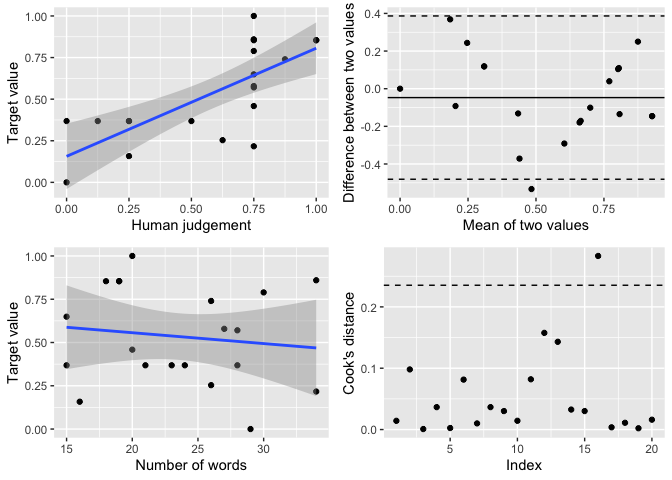
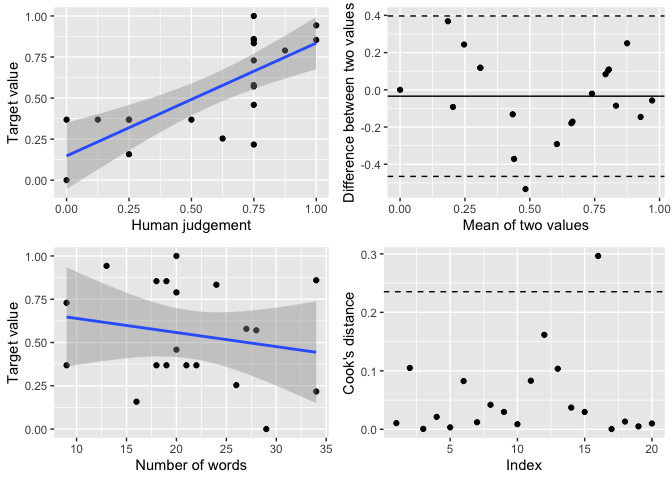
removed abstracts_topicmodels from CRAN build.

diff --git a/overview_gh.md b/overview_gh.md
@@ -40,7 +40,7 @@ library(stm)
 #> stm v1.3.5 successfully loaded. See ?stm for help. 
 #>  Papers, resources, and other materials at structuraltopicmodel.com
 library(quanteda)
-#> Package version: 1.5.2
+#> Package version: 2.0.0
 #> Parallel computing: 2 of 4 threads used.
 #> See https://quanteda.io for tutorials and examples.
 #> 
@@ -292,11 +292,20 @@ oolong_test
 ``` r
 abstracts_dfm
 #> Document-feature matrix of: 2,500 documents, 3,998 features (98.6% sparse).
+#>        features
+#> docs    explor benefit risk featur medic broker websit well type persuas
+#>   text1      1       2    2      2     6      3      6    1    3       1
+#>   text2      0       0    1      0     0      0      0    0    1       0
+#>   text3      0       1    0      0     0      0      0    0    0       0
+#>   text4      1       0    0      0     0      0      0    0    0       0
+#>   text5      1       0    0      0     0      0      0    0    0       0
+#>   text6      0       1    1      0     0      0      0    0    0       0
+#> [ reached max_ndoc ... 2,494 more documents, reached max_nfeat ... 3,988 more features ]
 ```
 
 ``` r
 oolong_test <- create_oolong(abstracts_warplda, abstracts$text, input_dfm = abstracts_dfm)
-#> INFO  [23:33:56.793] early stopping at 50 iteration
+#> INFO  [17:28:11.660] early stopping at 50 iteration
 oolong_test
 #> An oolong test object with k = 20, 0 coded.
 #> Use the method $do_word_intrusion_test() to do word intrusion test.
@@ -369,6 +378,25 @@ for further analysis. The corpus contains two `docvars`, ‘answer’.
 ``` r
 oolong_test$turn_gold()
 #> Corpus consisting of 20 documents and 1 docvar.
+#> text1 :
+#> "Thank you Eau Claire, Wisconsin.  #VoteTrump on Tuesday, Apr..."
+#> 
+#> text2 :
+#> ""@bobby990r_1: @realDonaldTrump would lead polls the second ..."
+#> 
+#> text3 :
+#> ""@KdanielsK: @misstcassidy @AllAboutTheTea_ @realDonaldTrump..."
+#> 
+#> text4 :
+#> "Thank you for a great afternoon Birmingham, Alabama! #Trump2..."
+#> 
+#> text5 :
+#> ""@THETAINTEDT: @foxandfriends @realDonaldTrump Trump 2016 ht..."
+#> 
+#> text6 :
+#> "People believe CNN these days almost as little as they belie..."
+#> 
+#> [ reached max_ndoc ... 14 more documents ]
 #> Access the answer from the coding with quanteda::docvars(obj, 'answer')
 ```
 
@@ -384,13 +412,13 @@ dfm(gold_standard, remove_punct = TRUE) %>% dfm_lookup(afinn) %>% quanteda::conv
     pull(afinn_score) -> all_afinn_score
 all_afinn_score
 #>       text1       text2       text3       text4       text5       text6 
-#>  0.29411765 -0.09090909 -0.16666667  0.38461538  0.00000000  0.00000000 
+#>  0.33333333 -0.09090909 -0.16666667  0.45454545  0.00000000  0.00000000 
 #>       text7       text8       text9      text10      text11      text12 
 #>  0.16666667  0.38461538  0.00000000  0.38461538 -0.29166667  0.00000000 
 #>      text13      text14      text15      text16      text17      text18 
-#>  0.50000000  0.07142857  0.00000000 -0.12000000  0.22222222  0.16000000 
+#>  0.50000000  0.07142857  0.00000000 -0.12000000  0.28571429  0.16000000 
 #>      text19      text20 
-#>  0.33333333  0.38888889
+#>  0.36842105  0.38888889
 ```
 
 Put back the vector of AFINN score into the respective `docvars` and
@@ -398,8 +426,8 @@ study the correlation between the gold standard and AFINN.
 
 ``` r
 summarize_oolong(oolong_test, target_value = all_afinn_score)
-#> Correlation: 0.71 (p = 0)
-#> Effect of content length: -0.285 (p = 0.224)
+#> Correlation: 0.718 (p = 0)
+#> Effect of content length: -0.319 (p = 0.171)
 ```
 
 ### Suggested workflow
@@ -469,8 +497,8 @@ acceptable cut-off.
 ``` r
 res
 #> Krippendorff's Alpha: 0.931443661971831
-#> Correlation: 0.733 (p = 0)
-#> Effect of content length: -0.285 (p = 0.224)
+#> Correlation: 0.744 (p = 0)
+#> Effect of content length: -0.319 (p = 0.171)
 ```
 
 ``` r

diff --git a/cran-comments.md b/cran-comments.md
@@ -1,3 +1,31 @@
+## Resubmission (27-Feb-2020) - version 0.3.1
+
+This is a resubmission of the package. In the previous submission, there were notes when checked with the following two favors:
+
+### r-devel-windows-ix86+x86_64
+
+    New submission
+
+As far as I know, this one can be ignored.
+
+    Possibly mis-spelled words in DESCRIPTION: workflow (10:198)
+
+Workflow is not a mis-spelled word.
+
+### r-devel-linux-x86_64-debian-gcc
+
+    New submission
+	
+Ditto
+
+    The dataset(s) may use package(s) not declared in Depends/Imports.
+
+I am really sorry for this. In the previous version, I had included an object `abstracts_topicmodels` produced by the package `topicmodels` and this package is only declared in `Suggested`.
+
+I have removed this object from the package. Also, I have added `testthat::skip_on_cran()` for tests related to such object. 
+
+I have retested the updated package on r-hub specifically for this favour and there is no notes about the `abstracts_topicmodels`. Winbuilder reported no error.
+
 ## Test environments
 * local R installation, R 3.6.2
 * ubuntu 16.04 (on travis-ci), R 3.6.2
